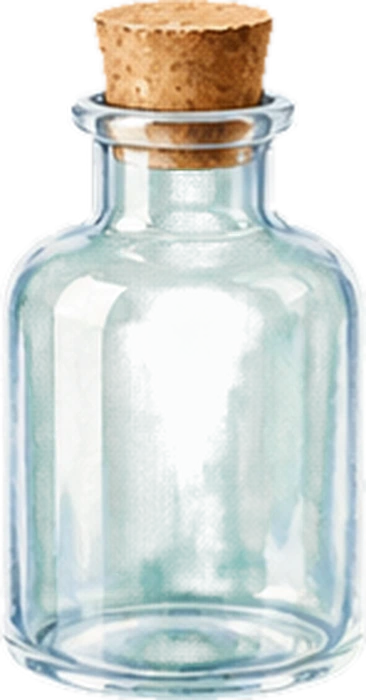
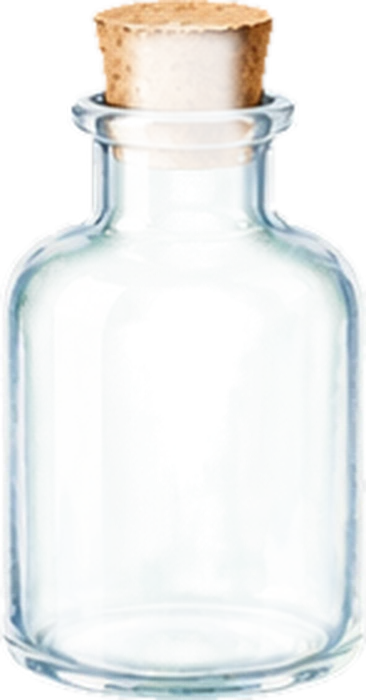
wip: glass sprites, clipPath liquids, heating curve art

diff --git a/components/minigames/HeatingCurve.tsx b/components/minigames/HeatingCurve.tsx
@@ -1,5 +1,5 @@
 'use client';
-import { StageBg } from '@/components/ui';
+import { GlassG, StageBg } from '@/components/ui';
 import { useCallback, useEffect, useMemo, useRef, useState } from 'react';
 import type { InvestigateProps } from '@/game/minigameTypes';
 import { playSfx } from '@/game/audio';
@@ -157,30 +157,30 @@ export function HeatingCurve({ targets, config, onDone }: InvestigateProps) {
             <text x={GX + 12} y={py(rec.temp) - 10} fill="#7cf0a8" fontSize="26" fontWeight="700">{Math.round(rec.temp)} ℃</text>
           </g>
         )}
-        {/* 가열대 */}
-        <rect x={PAD.x - 110} y={PAD.y + 90} width="220" height="30" rx="8" fill="#55627a" />
-        <rect x={PAD.x - 90} y={PAD.y + 60} width="180" height="34" rx="6" fill="#3a4558" />
+        {/* 가열대(Codex 그림) */}
+        <image href="/assets/items/hotplate.webp" x={PAD.x - 120} y={PAD.y + 22} width={240} height={151} />
         {phase === 'place' && (
           <circle cx={PAD.x} cy={PAD.y + 20} r="100" fill="none" stroke="#ffd27a" strokeWidth="4" strokeDasharray="10 10">
             <animate attributeName="stroke-opacity" values="1;0.3;1" dur="1.2s" repeatCount="indefinite" />
           </circle>
         )}
-        {phase === 'heat' && [-40, 0, 40].map((dx, i) => (
-          <path key={dx} d={`M${PAD.x + dx} ${PAD.y + 58} q-10 -22 0 -36 q14 14 0 36z`} fill="#ff9a3c">
-            <animate attributeName="opacity" values="1;0.4;1" dur={`${0.5 + i * 0.15}s`} repeatCount="indefinite" />
-          </path>
-        ))}
+        {phase === 'heat' && (
+          <ellipse cx={PAD.x} cy={PAD.y + 66} rx="78" ry="11" fill="#ff8a3c">
+            <animate attributeName="opacity" values="0.9;0.45;0.9" dur="0.8s" repeatCount="indefinite" />
+          </ellipse>
+        )}
         {phase === 'place' && !drag && (
           <path d={`M${SHELF.x + 70} ${SHELF.y - 10} L${PAD.x - 100} ${PAD.y - 10}`} stroke="#ffd27a" strokeWidth="5" strokeDasharray="4 12" strokeLinecap="round">
             <animate attributeName="stroke-dashoffset" values="0;-32" dur="0.8s" repeatCount="indefinite" />
           </path>
         )}
         {/* 비커 (드래그 대상) */}
-        <g transform={`translate(${bx} ${by})`} onPointerDown={onDown} onPointerMove={onMove} onPointerUp={onUp} onPointerCancel={() => setDrag(null)}
-          style={{ cursor: phase === 'place' ? 'grab' : 'default', touchAction: 'none' }}>
+        <g onPointerDown={onDown} onPointerMove={onMove} onPointerUp={onUp} onPointerCancel={() => setDrag(null)}
+          style={{ transform: `translate(${bx}px, ${by}px)`, cursor: phase === 'place' ? 'grab' : 'default', touchAction: 'none' }}>
           <rect x="-90" y="-100" width="180" height="200" fill="transparent" />
-          <rect x="-56" y="-70" width="112" height="140" rx="10" fill="#ffffff10" stroke="#cfe3ff" strokeWidth="4" />
-          <rect x="-52" y={66 - liquidH} width="104" height={liquidH} rx="6" fill={sub.color} opacity="0.85" />
+          <GlassG name="beaker-s" x={-64} y={-80} w={128} h={148}>
+            <rect x="-70" y={58 - liquidH} width="140" height={liquidH + 2} fill={sub.color} opacity="0.85" />
+          </GlassG>
           {phase === 'heat' && t >= tr && [-20, 0, 22].map((dx) => (
             <circle key={dx} cx={dx} cy="30" r="6" fill="#ffffffaa"><animate attributeName="cy" values="50;-30" dur="0.7s" repeatCount="indefinite" /></circle>
           ))}

diff --git a/components/ui.tsx b/components/ui.tsx
@@ -1,6 +1,7 @@
 'use client';
 
 import { useId, useState } from 'react';
+import SHAPES from '@/game/glassShapes.json';
 import { useDataStore } from '@/game/dataStore';
 
 /** 이미지가 없으면 fallback을 보여 준다 (플레이스홀더 → WebP 자동 교체) */
@@ -60,17 +61,19 @@ export function StageBg({ name, dark = 0.55 }: { name: 'lab' | 'labheat' | 'kitc
   );
 }
 
-/** SVG 안에서 쓰는 유리 도구: 액체(children)를 유리 안쪽 모양(-sil)으로 잘라 그린 뒤 유리 그림을 덮는다 */
+/** SVG 안에서 쓰는 유리 도구: 액체(children)를 유리 안쪽 모양(glassShapes.json)으로 잘라 그린 뒤 유리 그림을 덮는다 */
 export function GlassG({ name, x, y, w, h, children, opacity = 1 }: { name: string; x: number; y: number; w: number; h: number; children?: React.ReactNode; opacity?: number }) {
-  const id = useId().replace(/:/g, '');
+  const id = 'gl' + useId().replace(/[^a-zA-Z0-9]/g, '');
+  const rows = (SHAPES as Record<string, number[][]>)[name];
+  const pts = rows
+    ? [...rows.map(([fy, l]) => `${x + l * w},${y + fy * h}`), ...[...rows].reverse().map(([fy, , r]) => `${x + r * w},${y + fy * h}`)].join(' ')
+    : '';
   return (
     <g>
-      {children && (
+      {children && pts && (
         <>
-          <mask id={id} maskUnits="userSpaceOnUse" x={x} y={y} width={w} height={h}>
-            <image href={`/assets/items/${name}-sil.webp`} x={x} y={y} width={w} height={h} preserveAspectRatio="none" />
-          </mask>
-          <g mask={`url(#${id})`}>{children}</g>
+          <clipPath id={id}><polygon points={pts} /></clipPath>
+          <g clipPath={`url(#${id})`}>{children}</g>
         </>
       )}
       <image href={`/assets/items/${name}.webp`} x={x} y={y} width={w} height={h} preserveAspectRatio="none" opacity={opacity} pointerEvents="none" />

diff --git a/scripts/cutout_glass.py b/scripts/cutout_glass.py
@@ -8,6 +8,8 @@ src, cols, rows, out, px = sys.argv[1], int(sys.argv[2]), int(sys.argv[3]), sys.
 names = sys.argv[6:]
 im = Image.open(src).convert('RGBA'); W, H = im.size; p = im.load()
 obj = im.getchannel('A').point(lambda v: 255 if v >= 240 else 0).filter(ImageFilter.MinFilter(3)).filter(ImageFilter.GaussianBlur(0.7))
+core = obj.filter(ImageFilter.MinFilter(21)).filter(ImageFilter.GaussianBlur(3))  # 유리 안쪽(벽에서 떨어진 곳)
+c_ = core.load()
 o = obj.load()
 res = Image.new('RGBA', (W, H)); rp = res.load()
 for y in range(H):
@@ -16,7 +18,7 @@ for y in range(H):
         m = o[x, y]
         if m == 0: rp[x, y] = (0, 0, 0, 0); continue
         green = max(0.0, min(1.0, (g - max(r, b) - 4) / 34.0))
-        alpha = int(m * (1 - green * 0.97))
+        alpha = int(m * (1 - green * 0.97) * (1 - 0.88 * c_[x, y] / 255))
         # 초록 번짐 제거: 남는 픽셀의 초록을 중립으로
         gg = min(g, max(r, b) + 4)
         rp[x, y] = (r, gg, b, alpha)
@@ -30,15 +32,23 @@ for i, n in enumerate(names):
     cell = cell.resize((round(cell.size[0] * s), round(cell.size[1] * s)), Image.LANCZOS)
     cell.save(f'{out}/{n}.webp', quality=92); print(n, cell.size)
 
-# 유리 안쪽에 액체를 채울 때 쓰는 실루엣(흰색, 안쪽으로 조금 깎음) — <이름>-sil.webp
+# 유리 안쪽 모양(행마다 왼쪽·오른쪽 끝, 0~1) → game/glassShapes.json. 액체를 clipPath로 잘라 채울 때 쓴다.
+import json
+shapes = {}
 for i, n in enumerate(names):
     if n == '-': continue
     r_, c = divmod(i, cols)
     cell = obj.crop((c * cw, r_ * ch, (c + 1) * cw, (r_ + 1) * ch))
     full = res.crop((c * cw, r_ * ch, (c + 1) * cw, (r_ + 1) * ch))
     bb = full.getchannel('A').point(lambda v: 255 if v > 90 else 0).getbbox()
-    cell = cell.crop(bb).point(lambda v: 255 if v > 128 else 0)
-    s = px / max(cell.size)
-    cell = cell.resize((round(cell.size[0] * s), round(cell.size[1] * s)), Image.LANCZOS).filter(ImageFilter.MinFilter(9)).filter(ImageFilter.GaussianBlur(1.5))
-    sil = Image.new('RGBA', cell.size, (255, 255, 255, 0)); sil.putalpha(cell)
-    sil.save(f'{out}/{n}-sil.webp', quality=90)
+    cell = cell.crop(bb).point(lambda v: 255 if v > 128 else 0).filter(ImageFilter.MinFilter(9))
+    W2, H2 = cell.size; cp = cell.load()
+    rows_ = []
+    N = 70
+    for k in range(N + 1):
+        y = min(H2 - 1, int(k / N * (H2 - 1)))
+        xs = [x for x in range(W2) if cp[x, y] > 128]
+        if xs: rows_.append([round(y / H2, 4), round(min(xs) / W2, 4), round((max(xs) + 1) / W2, 4)])
+    shapes[n] = rows_
+json.dump(shapes, open('game/glassShapes.json', 'w'))
+print('shapes', len(shapes))
